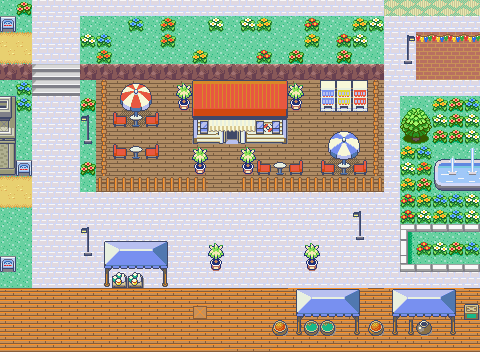
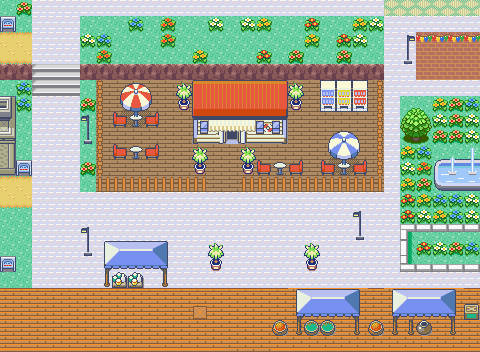
Café: align the side fences with the posts of the front fence
Claude-Session: https://claude.ai/code/session_015nAeBdQj1XXGE9TrWVaT6H

Changed region(s): [[0.7812, 0.2188, 0.8125, 0.5], [0.1875, 0.2188, 0.2188, 0.5]]

diff --git a/dev_scripts/lilycove_redesign/port_art.py b/dev_scripts/lilycove_redesign/port_art.py
@@ -175,14 +175,16 @@ for _n, _to in (('vending_water', 8), ('vending_lemonade', 4), ('vending_soda', 
     _CANVAS[_n] = [[_to if v == 10 else v for v in row] for row in _vm]; PAL_OF[_n] = 11
     ART[_n] = (lambda n=_n: _CANVAS[n])
 
-def _wood_fence_v():
-    """vertical run of the low wooden fence (a rail seen from above with a post every 8 px)"""
+def _wood_fence_v(cx):
+    """vertical run of the low wooden fence (a rail seen from above with a post every 8 px);
+    cx = rail centre, matching the posts of the horizontal fence (x 2..5 or x 10..13)"""
     _, WH, CR, YE, OR, RE, DR, BR, LB, BL, NV, LG, GR, DG, BN, DB = range(16)
     c = [[0] * 16 for _ in range(16)]
     for y in range(16):                            # rail
-        c[y][6] = DB; c[y][7] = OR; c[y][8] = BN; c[y][9] = DB
+        c[y][cx - 2] = DB; c[y][cx - 1] = OR; c[y][cx] = BN; c[y][cx + 1] = DB
     for y0 in (1, 9):                              # posts
         for y in range(y0, y0 + 5):
-            for x in range(5, 11): c[y][x] = DB if x in (5, 10) or y in (y0, y0 + 4) else (OR if x == 6 else BN)
+            for x in range(cx - 3, cx + 3): c[y][x] = DB if x in (cx - 3, cx + 2) or y in (y0, y0 + 4) else (OR if x == cx - 2 else BN)
     return c
-_CANVAS['fence_wood_v'] = _wood_fence_v(); PAL_OF['fence_wood_v'] = 6; ART['fence_wood_v'] = lambda: _CANVAS['fence_wood_v']
+for _n, _cx in (('fence_wood_vl', 4), ('fence_wood_vr', 12)):   # left / right side of an enclosure
+    _CANVAS[_n] = _wood_fence_v(_cx); PAL_OF[_n] = 6; ART[_n] = (lambda n=_n: _CANVAS[n])

diff --git a/dev_scripts/lilycove_redesign/layout.py b/dev_scripts/lilycove_redesign/layout.py
@@ -233,7 +233,7 @@ art('umbrella_set_blue',10,30,bottom='terrace',walk_rows=1)
 art('table_set',-3,31,bottom='terrace'); art('table_set',6,32,bottom='terrace')   # small modern tables
 for (px_,py_) in ((1,27),(8,27),(2,31),(5,31)): art('potted_palm',px_,py_,bottom='terrace',walk_rows=1)  # flank café and entrance
 for y in range(27,33):                                                      # fence around the terrace...
-    art('fence_wood_v',-4,y,bottom='terrace'); art('fence_wood_v',13,y,bottom='terrace')
+    art('fence_wood_vl',-4,y,bottom='terrace'); art('fence_wood_vr',13,y,bottom='terrace')
 for x in range(-4,14):                                                      # ...and along the front, entrance at x 3..4
     if x not in (3,4): art('fence_wood',x,33,bottom='terrace')
 put(-5,28,FLOWERS); put(-5,32,FLOWERS)
